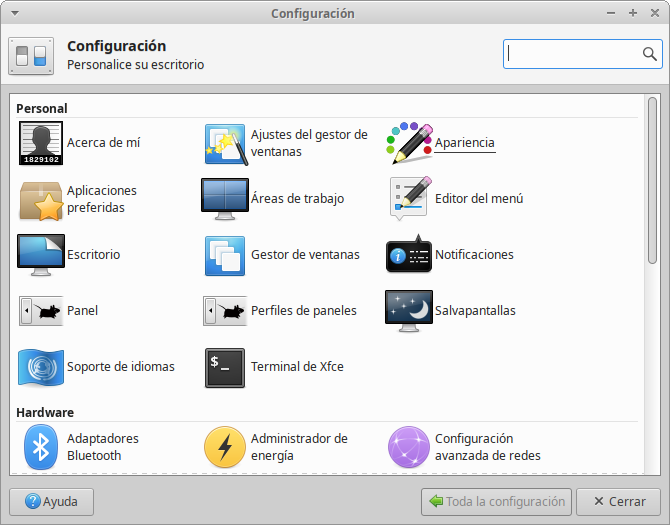
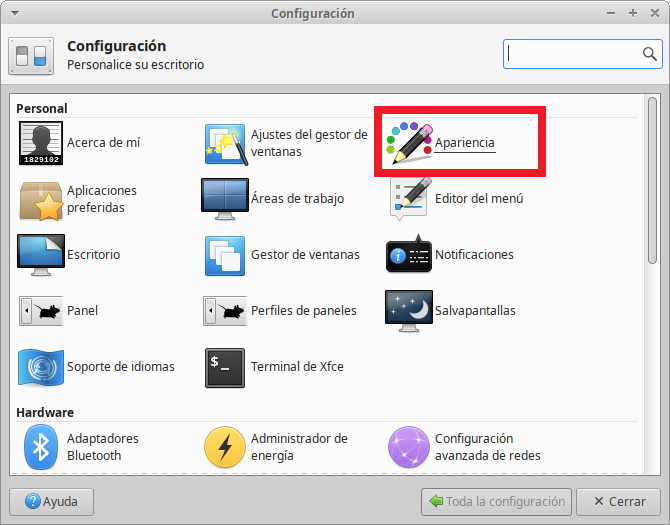
New post
+ Modern Xubuntu

Changed region(s): [[0.5373, 0.1829, 0.8358, 0.3352]]

diff --git a/_posts/2020-05-30-xubuntu-modern-look.md b/_posts/2020-05-30-xubuntu-modern-look.md
@@ -1,0 +1,251 @@
+---
+layout: post
+title: Moderniza Xubuntu 🐭
+subtitle : Dale un aspecto moderno a Xubuntu 20.04
+tags: [Linux]
+author: Tania R. Zúñiga
+comments : true
+---
+
+Está semana empece a usar Xubuntu como mi sistema operativo principal. Una de las primeras cosas que hice fue modificar su aspecto para que fuera más moderno y comodo para mi. Linux (en particular Xubuntu) me permite tener lo mejor de dos mundos, de manera muy fácil. Hablo del *dock* al estilo macOS y el menú desplegable como Windows XP.  😀 
+
+![resultado]({{ site.baseurl }}/assets/img/modernXubuntu/default_to_cool.png)
+
+¿Te gustaría tener una configuración así? 
+
+¡En este post te cuento paso a paso como conseguirla!
+
+<br>
+
+<h3>Cambiar iconos y ventanas en Xubuntu</h3>
+
+Estoy usando los iconos *Papirus*. Los puedes obtener de su [repo oficial](https://github.com/PapirusDevelopmentTeam/papirus-icon-theme)
+o usando los comandos:
+
+```
+sudo add-apt-repository ppa:papirus/papirus
+sudo apt-get update
+sudo apt-get install papirus-icon-theme
+```
+
+<br>
+
+El tema que estoy usando se llama **Dark Olympic**, lo puedes descargar de [aquí](https://www.pling.com/s/XFCE/p/1302313/). Descarga *"Dark-Olympic.zip"* en la sección de *"Files"*.
+
+![Descargar_tema]({{ site.baseurl }}/assets/img/modernXubuntu/download_theme.png)
+
+Selecciona "Save File".
+
+![Save_theme]({{ site.baseurl }}/assets/img/modernXubuntu/save_file.png)
+
+Después ve a la carpeta de Descargas y con click derecho sobre *"Dark-Olympic.zip"* escoge "Extraer aquí". Esta acción generara un folder llamado Dark-Olympic. 
+
+![descomprimir]({{ site.baseurl }}/assets/img/modernXubuntu/extraer_aqui.png)
+
+Ahora da click derecho dentro de la carpeta Descargas y selecciona "Abrir un terminal aquí
+
+![abrir_terminal_descargas]({{ site.baseurl }}/assets/img/modernXubuntu/abrir_terminal}.png)
+
+o usa el comando
+```
+cd Descargas/
+```
+
+<br>
+
+Para instalar el tema Dark-Olympic, en el terminal que abrimos, escribirlos el siguiente comando
+```
+sudo mv Dark-Olympic/ /usr/share/themes/
+```
+
+<br>
+
+Ahora para elegirlo, abre el menú Desplegable busca "Configuración" o "Administración de la configuración" y dirígete a "Apariencia"
+
+![Apariencia]({{ site.baseurl }}/assets/img/modernXubuntu/abrir_configuracion.png)
+
+
+<br>
+
+Cambia el tema por "Dark-Olympic"
+
+![select_dark-olympic]({{ site.baseurl }}/assets/img/modernXubuntu/selecciona_dark-olympic.png)
+
+<br>
+
+Luego ve al apartado de "Iconos" y escoge "Papirus-Dark"
+
+![select_papirus-dark]({{ site.baseurl }}/assets/img/modernXubuntu/selecciona_iconos_papirus.png)
+
+<br>
+
+¡Ya casí! Solo que los marcos de la ventana se ven raros ¿no?
+
+Clickea "Toda la configuración" para regresar a la Configuración. Ahora dirígete al "Gestor de ventanas"
+
+![cambia_ventanas]({{ site.baseurl }}/assets/img/modernXubuntu/gestor_de_ventanas.png)
+
+<br>
+
+y selecciona "Dark-Olympic".
+
+![select_papirus-dark]({{ site.baseurl }}/assets/img/modernXubuntu/ventanas_dark_olympic.png)
+
+<br>
+
+¡Ya tenemos nuestras ventanas moderas! Ahora vamos por nuestro Dock.
+
+<br>
+
+<h3>Agregar un Dock a Xubuntu</h3>
+
+Para instalar el Dock, abrimos un terminal y tecleamos el comando 
+
+`sudo apt-get install plank`
+
+<br>
+
+Una vez que termine la instalación abrimos el "menú Desplegable" buscamos "Plank".
+
+![buscar_plak]({{ site.baseurl }}/assets/img/modernXubuntu/abrir_plank.png)
+
+<br>
+
+Al abrirlo, aparecerá nuestro Dock en la parte de abajo. Para editarlo a nuestro gusto, vamos a escribir en la terminal
+
+`plank  --preferences`
+
+<br>
+
+Ese comando nos abrirá un menú. Estás son las configuraciones que estoy usando.
+
+![preferences_plank]({{ site.baseurl }}/assets/img/modernXubuntu/plank_settings.png)
+
+<br>
+
+Para agregar una aplicacion solo tenemos que arrastarla hacia el dock o si esta abierta dar click derecho y seleccionar "Mantener en el dock". Para eliminara una aplicacion del dock solo tenemos que arrastarlas fuera del dock o deseleccionar "Mantener en dock".
+
+<br>
+
+Es recomendable que el Dock se inicie cada que prendas tu computadora. Pra ello dirigete a "Sesión e inicio" > "Autoarranque de aplicaciones" > " + Añadir". Agrega Plank de la siguiente forma
+
+![open_plank_always]({{ site.baseurl }}/assets/img/modernXubuntu/plank_config.png)
+
+<br>
+
+<h3>Personalizar barra superior Xubuntu</h3>
+
+Lo siguiente que haremos es editar la barra superior, damos click derecho en ella y nos dirigimos a "Panel" > "Preferencias del panel" 
+
+<br>
+
+En el menú que nos abra vamos a añadir un nuevo panel haciendo click en "+".
+
+![add_panel]({{ site.baseurl }}/assets/img/modernXubuntu/aniadir_nuevo_panel.png)
+
+<br>
+
+Nos creara un "Panel 1" vamos a ir a "Elementos" y apretamos "+". Nos abrirá una ventana, donde buscaremos "Menú Whisker", como en la imagen. Le damos "+ Añadir". 
+
+![add_menú_whisker]({{ site.baseurl }}/assets/img/modernXubuntu/menú_whisker.png)
+
+<br>
+
+Al dar doble clic sobre "Menú whisker" podemos cambiar el icono de Xubuntu por el que queramos en "Botón el panel" dando doble click sobre el Logo de Xubuntu.
+
+![change_menu_whisker_logo]({{ site.baseurl }}/assets/img/modernXubuntu/editar_icono_menu_w.png)
+
+<br>
+
+Para elegir alguna imagen que tengamos guardada en "Seleccionar el icono de:" elegimos "Archivos de imagen" y podemos buscarla. Yo usare un cohete que tengo en la carpeta "Descargas". 
+
+![change_menu_whisker_logo]({{ site.baseurl }}/assets/img/modernXubuntu/elegir_icono_de_imagen.png)
+
+<br>
+
+Ahora en "Preferencias del panel" > "Apariencia" podemos elegir el color de fondo de las barras/paneles. A mí me gusta transparente pero tú puedes escoger el que quieras. Pondré ambos paneles, el "Panel 0" y el "Panel 1", transparentes.
+![fondo_transparente]({{ site.baseurl }}/assets/img/modernXubuntu/panel_aparencia.png)
+
+<br>
+
+Luego  "Preferencias del panel" > "Elementos" del "Panel 0" eliminare las ventanas y el MenÚ Whisker usando el " **-** ", dando como resultado
+
+![elementos_panel_0]({{ site.baseurl }}/assets/img/modernXubuntu/wifi_hora_dia.png)
+
+<br>
+
+Despues en "Preferencias del panel" > "Presentación" del "Panel 0" modificare sus atributos para que queden así.
+
+![presentacion_panel_0]({{ site.baseurl }}/assets/img/modernXubuntu/presentacion_panel_0.png)
+
+<br>
+
+Luego el "Panel 1" lo movemos a la ubicación de nuestra preferencia y seleccionamos "Bloquear panel" cuando estemos satisfechos. Yo lo puse en la esquina superior izquierda, usando las siguientes configuraciones.
+
+![presentacion_panel_1]({{ site.baseurl }}/assets/img/modernXubuntu/panel1_preferencias.png)
+
+<br>
+
+<h3>Cambiar wallpaper en Xubuntu</h3>
+
+Finalmente para cambiar el fondo de pantalla damos click derecho en nuestro escritorio y escogemos "Configuracion del escritorio".
+
+Si queremos usar alguna imagen personalizada, en "Carpeta:" seleccionamos la ubicación donde tengamos fondo que deseamos. Yo tengo mi fondo la carpeta de "Descargas".
+![presentacion_panel_1]({{ site.baseurl }}/assets/img/modernXubuntu/fondo_descargas.png)
+
+> Tip ⭐
+> 
+>  Te recomiendo que guardes las imágenes que vas a usar de *wallpaper* en "Imágenes". ¡No las vayas a borrar por accidente!
+
+<br>
+
+Descarga el *wallpaper* que use <a target="_blank" id="raw-url" href="https://raw.githubusercontent.com/TanZng/tanzng.github.io/master/assets/img/modernXubuntu/wall_spaceX.jpg">aquí</a>.
+
+Descarga el ícono que use <a target="_blank" id="raw-url" href="https://raw.githubusercontent.com/TanZng/tanzng.github.io/master/assets/img/modernXubuntu/wall_spaceX.jpg">aquí</a>.
+
+
+<br>
+
+<h3>Extras</h3>
+
+<h5>Usar Neofetch en Xubuntu</h5>
+
+Abre la terminal e instala **Neofetch** usando
+
+`sudo apt update`
+
+`sudo apt install neofetch`
+
+Para ver el logo de Xubuntu en la terminal usa el comando
+
+`neofetch --ascii_distro Xubuntu`
+
+<br>
+
+<h5>Abrir el Menú Desplegable de Xubuntu usando la tecla Windows</h5>
+
+Si quieres abrir el Menú Desplegable (Menú Whisker) usando la tecla Windows abre el Menú Desplegable y busca "Teclado".
+
+![buscar_teclado]({{ site.baseurl }}/assets/img/modernXubuntu/menu_d_teclado.png)
+
+<br>
+
+Dirígete a "Atajos de aplicación" y busca "xfce4-popup-whiskermenu" 
+
+![popup_whisker_xfce4]({{ site.baseurl }}/assets/img/modernXubuntu/usar_teclaWindows.png)
+
+<br>
+
+dale doble click y cuando te salga una ventana como la siguiente, presiona la tecla Windows.
+
+![presentacion_panel_1]({{ site.baseurl }}/assets/img/modernXubuntu/tecla_windows.png)
+
+¡Ahora cuando presiones la tecla Windows desplegarás el Menú Whisker al estilo Windows XP!
+
+<br>
+
+¡Listo! 
+
+¡Ya tenemos un Xubuntu más moderno y bonito! No olvides que puedes personalizarlo usando el tema, iconos, fondos y configuraciones que quieras. Comparte en los comentarios tus resultados.
+
+![resultado]({{ site.baseurl }}/assets/img/modernXubuntu/resultado_final.png)
